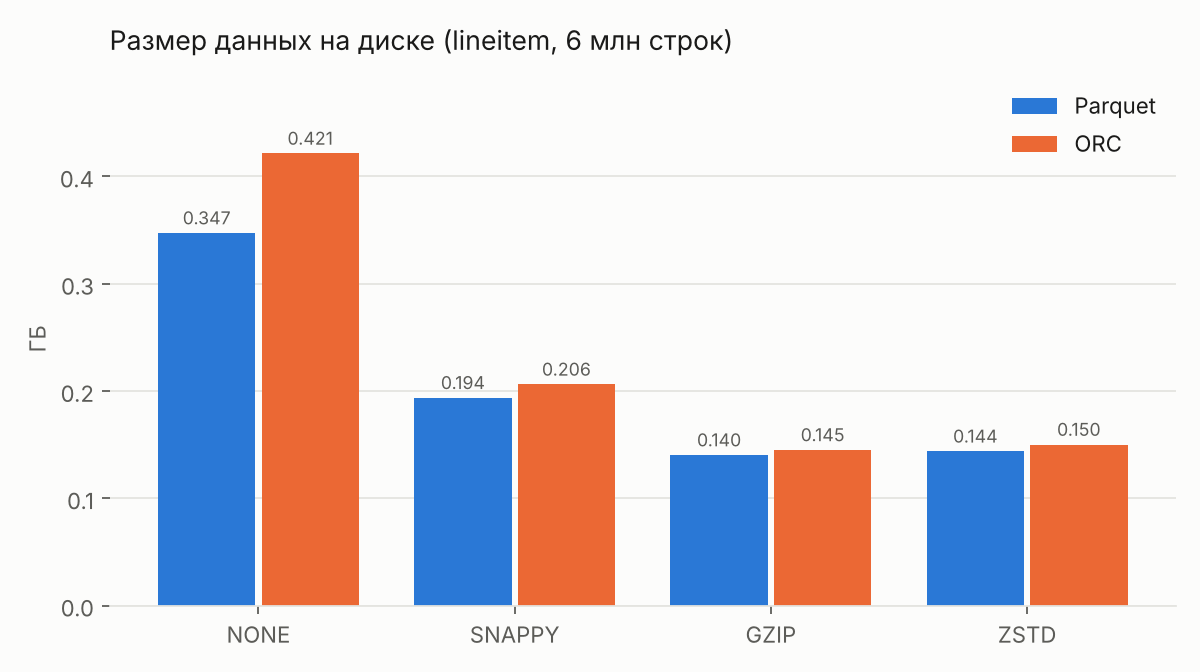
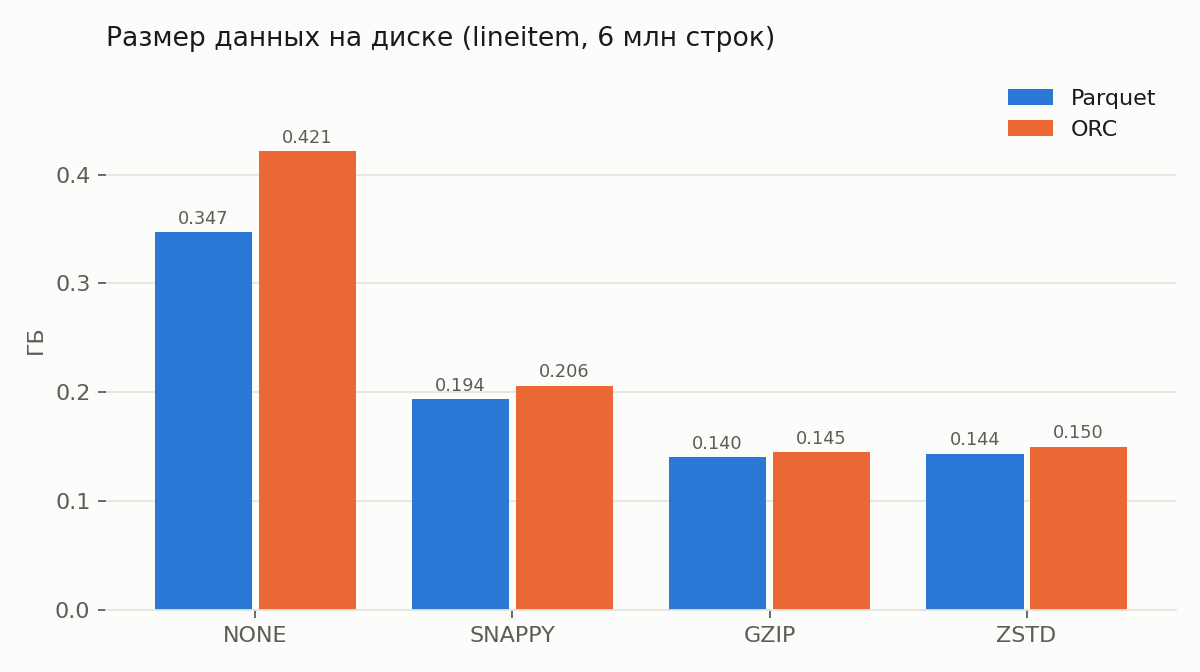
Повторный прогон бенчмарка: новые замеры, графики и выводы
Размеры и метаданные совпали с первым прогоном до долей процента,
времена записи/чтения обновлены; анализ и рекомендации пересчитаны
по новым цифрам, добавлен раздел о повторяемости.

diff --git a/make_charts.py b/make_charts.py
@@ -63,8 +63,8 @@ for fmtname, color in (("PARQUET", PQ), ("ORC", ORC)):
     ax.plot(xs, ys, "o-", color=color, lw=2, ms=9, label=fmtname.title(),
             markeredgecolor=SURFACE, markeredgewidth=2)
     off = {"NONE": (8, 6), "SNAPPY": (8, 6),
-           "GZIP": (-6, -16) if fmtname == "PARQUET" else (6, 8),
-           "ZSTD": (10, -4) if fmtname == "PARQUET" else (-10, 10)}
+           "GZIP": (-6, -16) if fmtname == "PARQUET" else (-8, -16),
+           "ZSTD": (10, -4)}
     for c, xv, yv in zip(codecs, xs, ys):
         ax.annotate(c, (xv, yv), textcoords="offset points", xytext=off[c],
                     fontsize=8, color=MUTED)
